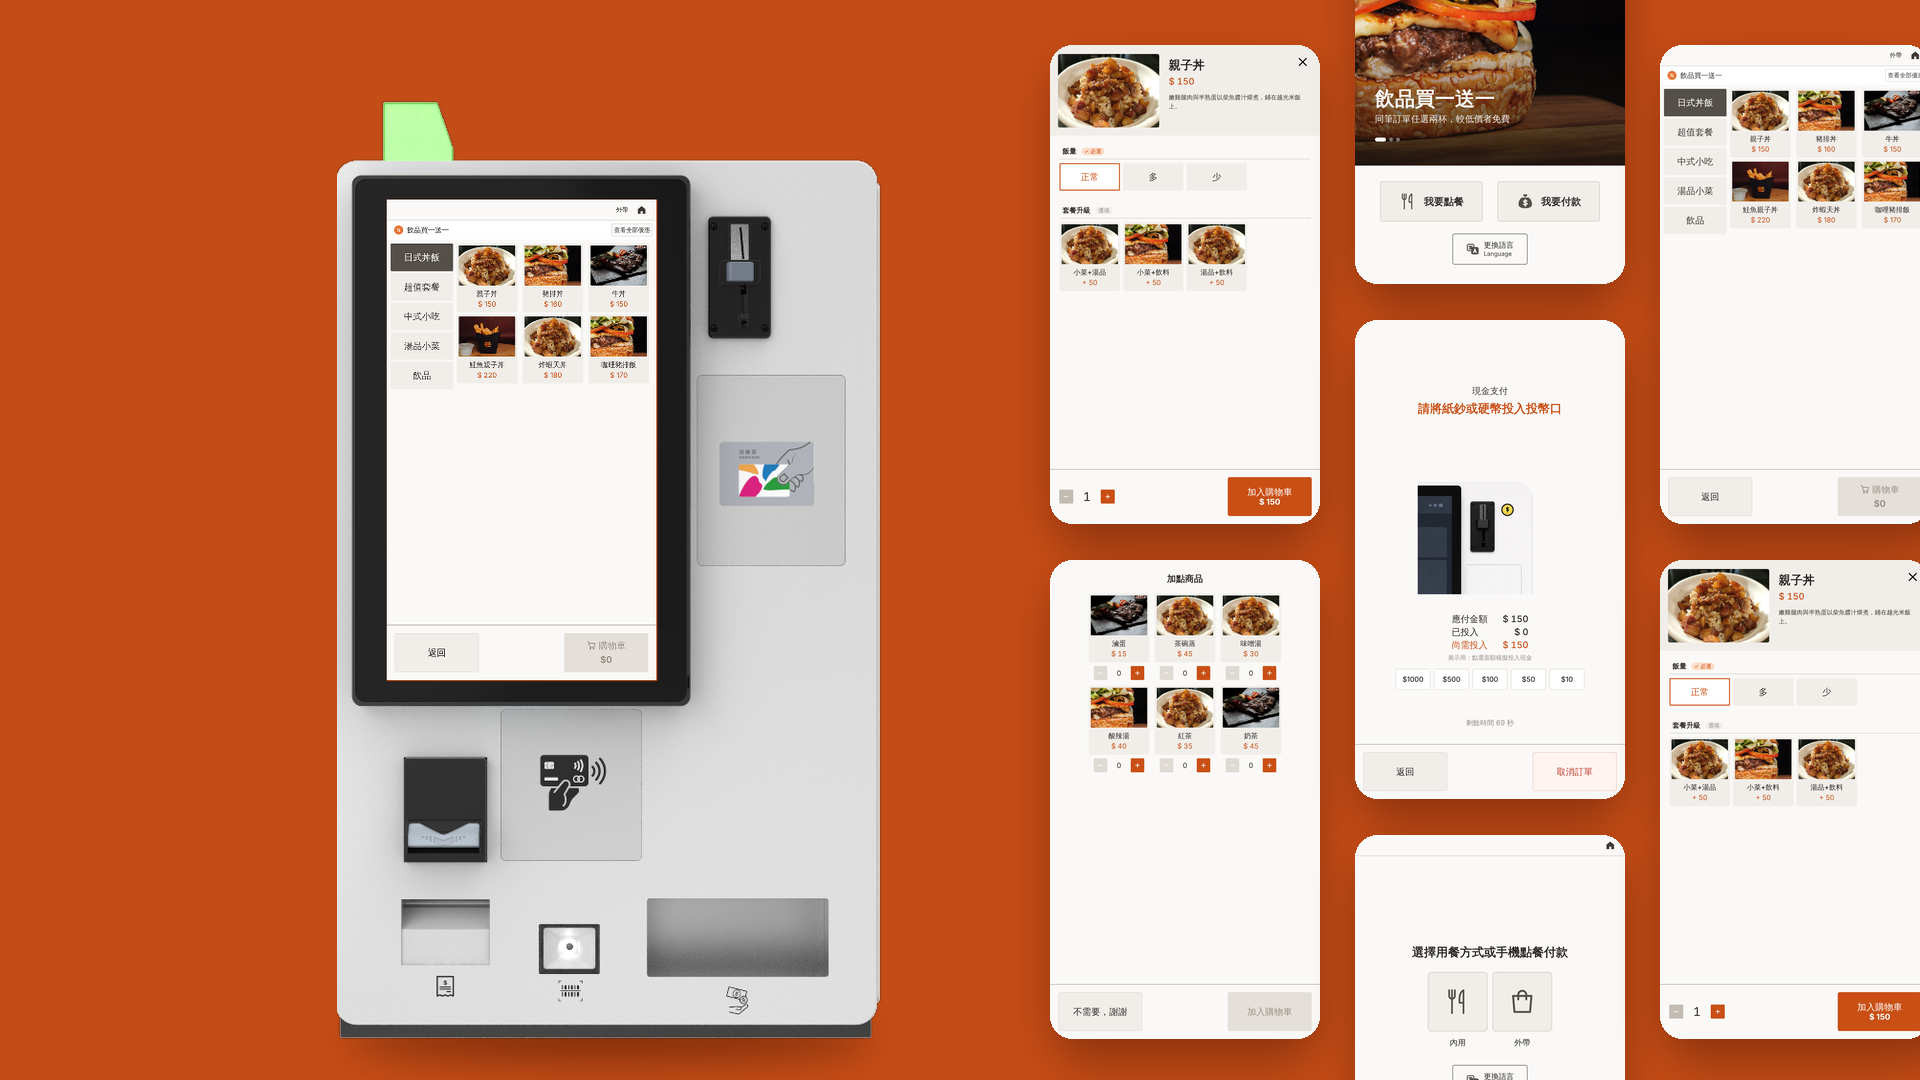
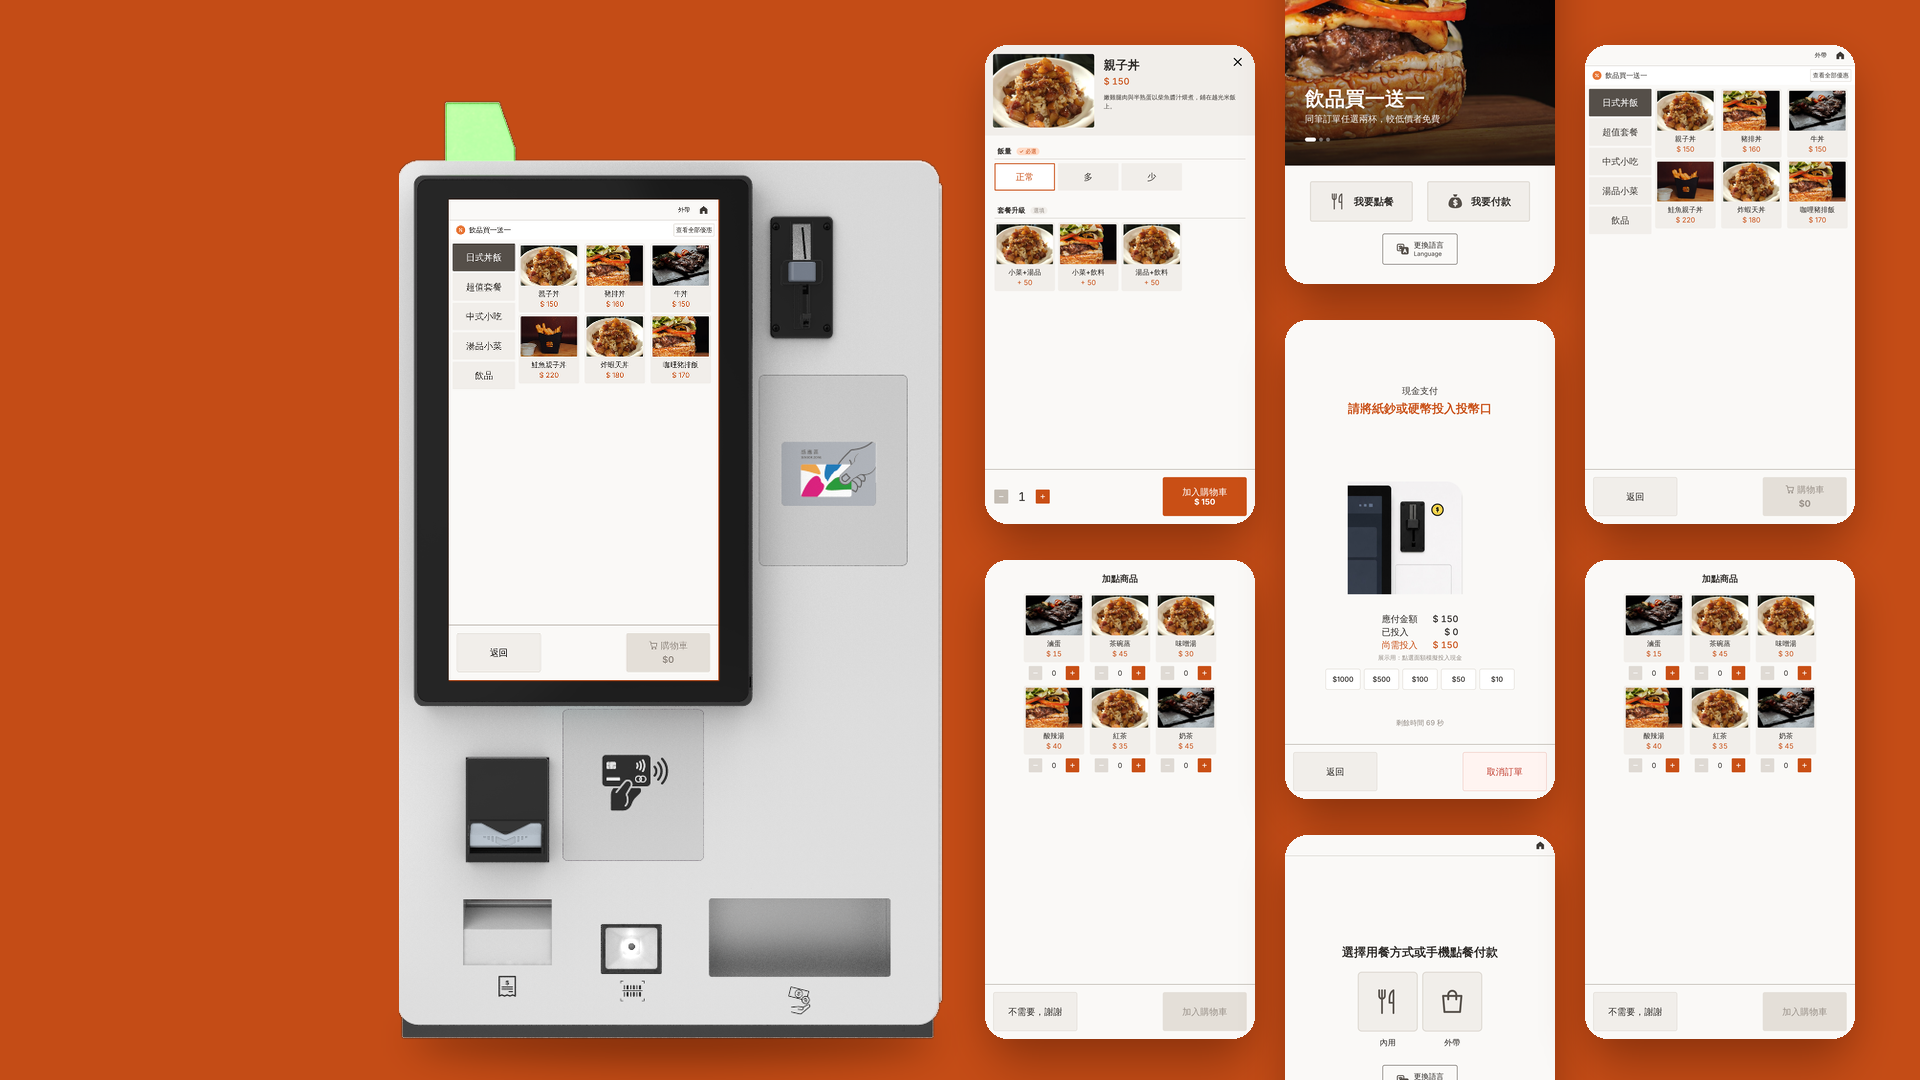
KIOSK cover: keep the machine off the card edge on mobile and move the screens closer
Claude-Session: https://claude.ai/code/session_01NDe3p8GQ2HZ5WF8ct1RAfY

diff --git a/script.js b/script.js
@@ -11,7 +11,7 @@ function updateLanguageControls(){const toggle=document.querySelector('#language
 document.querySelector('#language-toggle')?.addEventListener('click',()=>setPortfolioLanguage(isEnglish()?'zh':'en'));
 const figmaURL='https://www.figma.com/design/S2sh6gtlIJ3JtDM7i3MEiN/portfolio?node-id=1654-18351';
 const repoURL='https://github.com/chi861008/researved-system';
-const visual=(name)=>name==='schedule'?'<div class="work-visual visual-schedule"><div class="arrow-circle" aria-hidden="true">↗</div><div class="schedule-mock"><div class="schedule-top"><strong>Weekly schedule</strong><span>October / 2026　↗</span></div><div class="calendar-week">'+['MON','TUE','WED','THU','FRI','SAT','SUN'].map((d,i)=>'<div class="calendar-day"><b>'+d+'</b>'+(i===0||i===2||i===4?'<span class="calendar-pill">Pilates 10:00</span>':'')+(i===1||i===3?'<span class="calendar-pill orange-pill">Private 14:00</span>':'')+'</div>').join('')+'</div></div></div>':name==='kiosk'?'<div class="work-visual visual-kiosk kiosk-image-cover"><img src="./kiosk-cover.png?v=7" alt="KIOSK 自助點餐介面與付款引導的設計畫面拼貼"><div class="arrow-circle" aria-hidden="true">↗</div></div>':'<div class="work-visual visual-kds kds-image-cover"><img src="./kds-cover.png?v=8" alt="KDS 個人概念設計封面：深色廚房訂單與分類畫面的介面拼貼"><div class="arrow-circle" aria-hidden="true">↗</div></div>';
+const visual=(name)=>name==='schedule'?'<div class="work-visual visual-schedule"><div class="arrow-circle" aria-hidden="true">↗</div><div class="schedule-mock"><div class="schedule-top"><strong>Weekly schedule</strong><span>October / 2026　↗</span></div><div class="calendar-week">'+['MON','TUE','WED','THU','FRI','SAT','SUN'].map((d,i)=>'<div class="calendar-day"><b>'+d+'</b>'+(i===0||i===2||i===4?'<span class="calendar-pill">Pilates 10:00</span>':'')+(i===1||i===3?'<span class="calendar-pill orange-pill">Private 14:00</span>':'')+'</div>').join('')+'</div></div></div>':name==='kiosk'?'<div class="work-visual visual-kiosk kiosk-image-cover"><img src="./kiosk-cover.png?v=8" alt="KIOSK 自助點餐介面與付款引導的設計畫面拼貼"><div class="arrow-circle" aria-hidden="true">↗</div></div>':'<div class="work-visual visual-kds kds-image-cover"><img src="./kds-cover.png?v=8" alt="KDS 個人概念設計封面：深色廚房訂單與分類畫面的介面拼貼"><div class="arrow-circle" aria-hidden="true">↗</div></div>';
 const card=p=>'<a class="work-card" href="#/case/'+p.id+'">'+visual(p.visual)+'<div class="work-info"><div><h3>'+p.title+'</h3><p>'+p.zh+'<br>'+p.type+'</p></div><div class="project-number">'+p.number+' / 03</div></div></a>';
 function home(){return '<section class="identity-hero"><div class="identity-wrap"><h1 class="visually-hidden">Yuan Chi — Product Manager &amp; Product Designer</h1><div class="identity-caption">PORTFOLIO / 2026</div><div class="identity-title"><span>Yuan</span><figure class="identity-photo"><img src="./yuan-chi-expressive-hero.png" alt="Yuan Chi 俏皮的黑白個人照片" fetchpriority="high" loading="eager" decoding="async"><i class="corner c1"></i><i class="corner c2"></i><i class="corner c3"></i><i class="corner c4"></i></figure><span>Chi</span></div><div class="identity-details"><p>Product Manager ×<br>Product Designer</p><p>Research / Strategy / Design<br>From insight to working product</p><p>Based in Taiwan<br><a href="mailto:chi861008@gmail.com">chi861008@gmail.com ↗</a></p></div></div></section><section class="intro-portrait wrap" id="about"><div class="intro-copy"><div class="eyebrow">ABOUT ME</div><h2>Hi<span class="orange">.</span></h2><p>我是產品設計師，正往產品經理發展。擅長把模糊的業務問題拆成可以驗證的假設，再用研究、設計與可運作的原型，幫團隊做出取捨。</p><p>過去曾參與餐飲 POS、自助點餐機、雲端報表及廚房顯示系統等產品。工作之外，我也喜歡從生活中的真實問題發起 Side Project，讓研究、設計與開發不只停留在工作中，也能實際應用於日常生活。</p><a class="intro-link" href="#/about">More about me <span>↗</span></a></div><div class="intro-visual"><img src="./yuan-chi-about-crossleg-slim.svg" alt="Yuan Chi 個人黑白形象照"><div class="orbit-word">DESIGN · RESEARCH · PRODUCT · BUILD ·</div></div></section><section class="section-space wrap" id="work"><div class="section-head selected-head"><div><div class="eyebrow">SELECTED WORK / 2026</div><h2>Works record<span class="orange">.</span></h2></div></div><div class="work-grid identity-works">'+projects.map(card).join('')+'</div></section><section class="dark-band"><div class="wrap"><div class="eyebrow">THE WAY I THINK</div><h2>Fall in love with the problem, not the solution.</h2><a href="mailto:chi861008@gmail.com">Let’s connect ↗</a></div></section>';}
 function aboutSection(){return '<section class="section-space wrap" id="about"><div class="about-mini"><div><div class="eyebrow">02 / About</div><h2>Curious by nature.<br>Builder by choice.</h2></div><div><p>我的背景跨越工業設計、使用者研究與數位產品設計，做過餐飲 POS、自助點餐機與廚房顯示系統。現在我往產品經理發展：定義問題、排定優先順序、用最小成本驗證，必要時用 AI 輔助開發自己把原型做出來。</p><p>我喜歡定義問題、串聯不同線索、提出解法，以及把複雜的邏輯整理得讓人容易理解。</p><div class="skills"><span class="chip">Product Discovery</span><span class="chip">Prioritization</span><span class="chip">UX Research</span><span class="chip">Product Design</span><span class="chip">Prototyping</span><span class="chip">AI-assisted Development</span></div></div></div></section>';}

diff --git a/index.html b/index.html
@@ -12,7 +12,7 @@
   <link href="https://fonts.googleapis.com/css2?family=DM+Sans:wght@400;500;600;700&family=Noto+Sans+TC:wght@400;500;600;700;800&display=swap" rel="stylesheet">
   <link rel="preload" as="image" href="./yuan-chi-expressive-hero.png" fetchpriority="high" />
   <link rel="preload" as="image" href="./yuan-chi-hero-flip-back.png" />
-  <link rel="stylesheet" href="./style.css?v=20261029zw" />
+  <link rel="stylesheet" href="./style.css?v=20261029zx" />
 </head>
 <body>
   <header class="nav">
@@ -29,7 +29,7 @@
     <div><strong>Yuan Chi Chang</strong><span>UX × Product Thinking × Building</span></div>
     <div class="footer-right"><span>Made with curiosity, 2026.</span><a href="#/">Back to top ↑</a></div>
   </footer>
-  <script src="./english.js?v=20261029zw"></script>
-  <script src="./script.js?v=20261029zw"></script>
+  <script src="./english.js?v=20261029zx"></script>
+  <script src="./script.js?v=20261029zx"></script>
 </body>
 </html>
